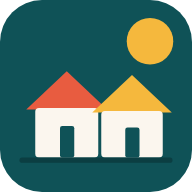
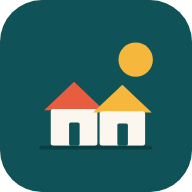
v5: botao Sair e icone corrigido

Changed region(s): [[0.125, 0.0938, 0.9062, 0.8438]]

diff --git a/app.js b/app.js
@@ -360,8 +360,8 @@ document.addEventListener('click', ev => {
 const MAX_GUARDAS = 3;
 let guardas = 0, saindo = false;
 function prepararHistorico() { history.replaceState({ base: 1 }, '', location.href); guardas = 0; }
-function reabastecerGuardas() {
-  if (saindo) return;
+function reabastecerGuardas(ev) {
+  if (saindo || (ev && ev.target && ev.target.closest && ev.target.closest('#sairApp'))) return;
   while (guardas < MAX_GUARDAS) { history.pushState({ guarda: 1 }, '', location.href); guardas++; }
 }
 document.addEventListener('click', reabastecerGuardas, true);
@@ -384,10 +384,15 @@ window.addEventListener('popstate', ev => {
   confirmarSaida();
 });
 function sairDoApp() {
+  // O Android não deixa um app da web se fechar por código. O app tira as proteções do
+  // histórico e o próximo toque em "voltar" fecha o app normalmente.
   const m = $('#modal'); m.dataset.saida = ''; fecharModal(true);
+  try { window.close(); } catch (e) { /* ignora */ }
   saindo = true;
-  history.go(-(guardas + 1));
-  setTimeout(() => { try { window.close(); } catch (e) { /* ignora */ } history.back(); }, 350);
+  if (guardas > 0) history.go(-guardas);
+  guardas = 0;
+  setTimeout(() => { saindo = false; }, 800);
+  setTimeout(() => aviso('Toque em voltar mais uma vez para fechar o app.'), 120);
 }
 function confirmarSaida() {
   abrirModal(`<h2>Sair do app?</h2><p class="ajuda">Seus dados continuam salvos${typeof Nuvem !== 'undefined' && Nuvem.ativa ? ' e sincronizados' : ' neste celular'}.</p>

diff --git a/sw.js b/sw.js
@@ -1,6 +1,6 @@
 /* Service worker do Bairro Ativo: guarda os arquivos do app para funcionar sem internet.
    Ao publicar uma nova versão, aumente o número em VERSAO. */
-const VERSAO = 'bairro-ativo-v4';
+const VERSAO = 'bairro-ativo-v5';
 const ARQUIVOS = [
   './',
   './index.html',
@@ -13,7 +13,9 @@ const ARQUIVOS = [
   './vendor/firebase-auth-compat.js',
   './vendor/firebase-firestore-compat.js',
   './icons/icon-192.png',
-  './icons/icon-512.png'
+  './icons/icon-512.png',
+  './icons/icon-maskable-192.png',
+  './icons/icon-maskable-512.png'
 ];
 
 self.addEventListener('install', e => {
